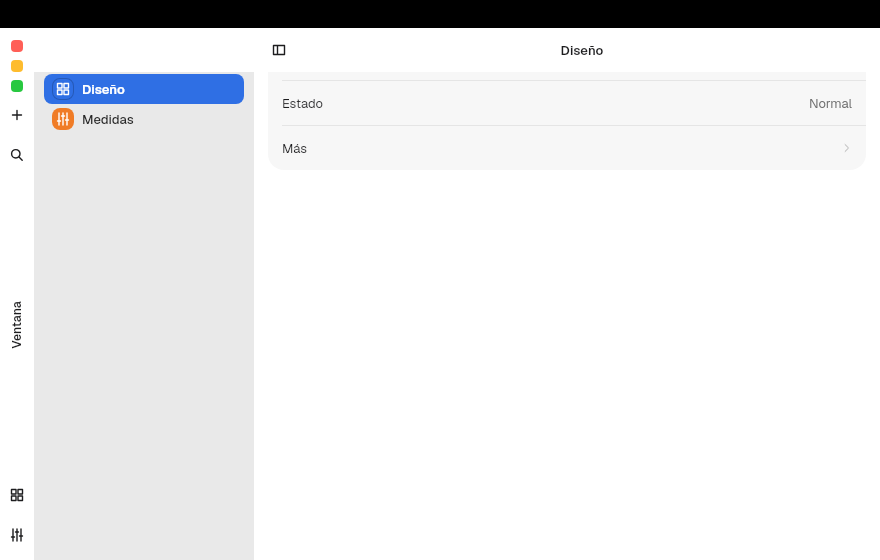
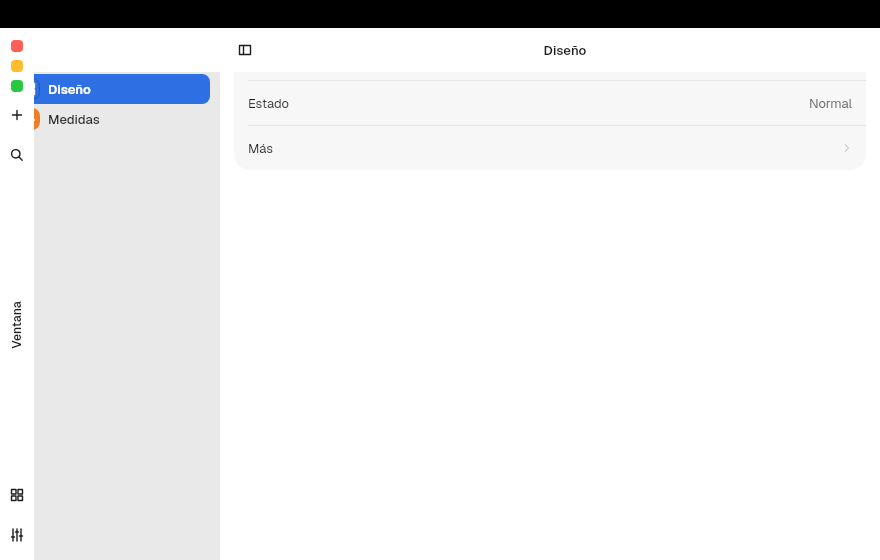
feat(kit): el Rail usa la barra de pantalla completa en vertical
En pantalla completa con la barra del compositor bajada, el Rail entra
desde su lado con la FullscreenBar de la ventana: Solid (franja opaca),
Glass (franja difuminada con línea interior), ProgressiveGlass
(difuminado desde el borde) o Push (vuelve al diseño y empuja el
contenido). Con la barra arriba no se ve. El cristal recupera los bordes
laterales. Capítulo 7 con las capturas de cada barra en el rail.

Claude-Session: https://claude.ai/code/session_01F89v1w3NBR5b9eab8vdVJm

diff --git a/crates/barrier-kit/src/glass.rs b/crates/barrier-kit/src/glass.rs
@@ -21,8 +21,16 @@ use crate::platform::FullscreenBar;
 
 use crate::theme::{SurfaceKind, surface_background};
 
+#[derive(Clone, Copy, Debug, PartialEq)]
+pub(crate) enum GlassEdge {
+    Top,
+    Left,
+    Right,
+}
+
 #[derive(PartialEq)]
 struct Glass {
+    edge: GlassEdge,
     metrics: FullscreenGlassMetrics,
     tint: Rgba,
     line: Option<Rgba>,
@@ -37,16 +45,32 @@ pub(crate) fn glass_tint() -> Rgba {
     }
 }
 
-fn glass(metrics: FullscreenGlassMetrics, depth: f32, line: Option<Rgba>) -> Element {
+fn along(edge: GlassEdge, depth: f32) -> (Size, Size, Position) {
+    let depth = Size::px(depth);
+    match edge {
+        GlassEdge::Top => (Size::fill(), depth, Position::new_absolute()),
+        GlassEdge::Left => (depth, Size::fill(), Position::new_absolute().left(0.0)),
+        GlassEdge::Right => (depth, Size::fill(), Position::new_absolute().right(0.0)),
+    }
+}
+
+fn glass(
+    edge: GlassEdge,
+    metrics: FullscreenGlassMetrics,
+    depth: f32,
+    line: Option<Rgba>,
+) -> Element {
+    let (width, height, position) = along(edge, depth);
     let layout = torin::node::Node {
-        width: Size::fill(),
-        height: Size::px(depth),
-        position: Position::new_absolute(),
+        width,
+        height,
+        position,
         ..Default::default()
     };
     Element::Element {
         key: DiffKey::None,
         element: Rc::new(Glass {
+            edge,
             metrics,
             tint: glass_tint(),
             line,
@@ -56,29 +80,39 @@ fn glass(metrics: FullscreenGlassMetrics, depth: f32, line: Option<Rgba>) -> Ele
     }
 }
 
-pub(crate) fn fullscreen_backdrop(bar: FullscreenBar, depth: f32) -> Element {
+pub(crate) fn fullscreen_backdrop(bar: FullscreenBar, edge: GlassEdge, depth: f32) -> Element {
     match bar {
-        FullscreenBar::Solid => rect()
-            .position(Position::new_absolute())
-            .width(Size::fill())
-            .height(Size::px(depth))
-            .background(crate::theme::color(Rgba {
-                a: 1.0,
-                ..glass_tint()
-            }))
-            .into_element(),
+        FullscreenBar::Solid => {
+            let (width, height, position) = along(edge, depth);
+            rect()
+                .position(position)
+                .width(width)
+                .height(height)
+                .background(crate::theme::color(Rgba {
+                    a: 1.0,
+                    ..glass_tint()
+                }))
+                .into_element()
+        }
         FullscreenBar::Glass => glass(
+            edge,
             FULLSCREEN_BAND,
             depth,
             Some(crate::style::Palette::current().separator),
         ),
-        FullscreenBar::ProgressiveGlass => glass(FULLSCREEN_GLASS, FULLSCREEN_GLASS.height, None),
+        FullscreenBar::ProgressiveGlass => {
+            glass(edge, FULLSCREEN_GLASS, FULLSCREEN_GLASS.height, None)
+        }
         FullscreenBar::Push => rect().into_element(),
     }
 }
 
-pub(crate) fn progressive_glass() -> Element {
-    fullscreen_backdrop(FullscreenBar::ProgressiveGlass, FULLSCREEN_GLASS.height)
+pub(crate) fn progressive_glass(edge: GlassEdge) -> Element {
+    fullscreen_backdrop(
+        FullscreenBar::ProgressiveGlass,
+        edge,
+        FULLSCREEN_GLASS.height,
+    )
 }
 
 fn strength_at(stops: &[(f32, f32)], t: f32) -> f32 {
@@ -103,7 +137,7 @@ fn layer_mask(mask: &[(f32, f32)], floor: f32, level: f32) -> Vec<(f32, f32)> {
         .collect()
 }
 
-fn downwards(bounds: SkRect, color: Rgba, stops: &[(f32, f32)]) -> Paint {
+fn inwards(edge: GlassEdge, bounds: SkRect, color: Rgba, stops: &[(f32, f32)]) -> Paint {
     let (colors, offsets): (Vec<Color4f>, Vec<f32>) = stops
         .iter()
         .map(|&(offset, alpha)| {
@@ -119,7 +153,11 @@ fn downwards(bounds: SkRect, color: Rgba, stops: &[(f32, f32)]) -> Paint {
     );
     let mut paint = Paint::default();
     paint.set_dither(true);
-    let line = ((bounds.left, bounds.top), (bounds.left, bounds.bottom));
+    let line = match edge {
+        GlassEdge::Top => ((bounds.left, bounds.top), (bounds.left, bounds.bottom)),
+        GlassEdge::Left => ((bounds.left, bounds.top), (bounds.right, bounds.top)),
+        GlassEdge::Right => ((bounds.right, bounds.top), (bounds.left, bounds.top)),
+    };
     paint.set_shader(shaders::linear_gradient(line, &gradient, None));
     paint
 }
@@ -155,7 +193,8 @@ impl ElementExt for Glass {
             let Some(filter) = blur((sigma, sigma), TileMode::Clamp, None, None) else {
                 continue;
             };
-            let mut mask = downwards(
+            let mut mask = inwards(
+                self.edge,
                 bounds,
                 Rgba::rgb8(255, 255, 255),
                 &layer_mask(self.metrics.mask, level / 2.0, level),
@@ -169,15 +208,29 @@ impl ElementExt for Glass {
             canvas.restore();
             canvas.restore();
         }
-        canvas.draw_rect(bounds, &downwards(bounds, self.tint, self.metrics.tint));
+        canvas.draw_rect(
+            bounds,
+            &inwards(self.edge, bounds, self.tint, self.metrics.tint),
+        );
         if let Some(line) = self.line {
             let width = FULLSCREEN_BAR.band_line * context.scale_factor as f32;
-            let edge_line = SkRect::new(
-                bounds.left,
-                bounds.bottom - width,
-                bounds.right,
-                bounds.bottom,
-            );
+            let edge_line = match self.edge {
+                GlassEdge::Top => SkRect::new(
+                    bounds.left,
+                    bounds.bottom - width,
+                    bounds.right,
+                    bounds.bottom,
+                ),
+                GlassEdge::Left => SkRect::new(
+                    bounds.right - width,
+                    bounds.top,
+                    bounds.right,
+                    bounds.bottom,
+                ),
+                GlassEdge::Right => {
+                    SkRect::new(bounds.left, bounds.top, bounds.left + width, bounds.bottom)
+                }
+            };
             let mut paint = Paint::default();
             paint.set_color4f(rgba4f(line), None);
             canvas.draw_rect(edge_line, &paint);

diff --git a/crates/barrier-kit/src/chrome.rs b/crates/barrier-kit/src/chrome.rs
@@ -11,6 +11,7 @@ use vow_design::{
     TITLEBAR_RAIL,
 };
 
+use crate::glass::{GlassEdge, fullscreen_backdrop};
 use crate::platform::FullscreenBar;
 use crate::platform::WindowControls;
 use crate::style::Palette;
@@ -386,13 +387,26 @@ impl Component for WindowChrome {
 
         let items = &self.rail_items;
         let vertical_rail = layout == TitlebarLayout::Rail && !style.unified(sidebar_shown);
+        let bar = fullscreen_bar();
+        let focus_progress = try_consume_root_context::<WindowControls>()
+            .map_or(0.0, |controls| *controls.focus_bar_progress.read());
+        let rail_over = overlaid && vertical_rail && bar != FullscreenBar::Push;
+        let rail_pushed = overlaid && vertical_rail && bar == FullscreenBar::Push;
         let lights_opacity = if reveal == Reveal::Corner {
             progress
         } else {
             1.0
         };
-        let edge = match (vertical_rail, reveal) {
+        let edge = match (vertical_rail && !rail_over, reveal) {
             (false, _) => None,
+            (true, _) if rail_pushed => Some(
+                rect()
+                    .width(Size::px(style.rail_width * focus_progress))
+                    .height(Size::fill())
+                    .overflow(Overflow::Clip)
+                    .child(rail(style, items, 1.0))
+                    .into_element(),
+            ),
             (true, Reveal::Always | Reveal::Corner) => {
                 Some(rail(style, items, lights_opacity).into_element())
             }
@@ -466,6 +480,29 @@ impl Component for WindowChrome {
                     )))),
             );
         }
+        if rail_over && focus_progress > 0.0 {
+            let extent = style.rail_width;
+            let position = Position::new_absolute().top(0.0);
+            let (position, glass_edge) = match style.side {
+                Side::Left => (
+                    position.left(-extent * (1.0 - focus_progress)),
+                    GlassEdge::Left,
+                ),
+                Side::Right => (
+                    position.right(-extent * (1.0 - focus_progress)),
+                    GlassEdge::Right,
+                ),
+            };
+            root = root.child(
+                rect()
+                    .position(position)
+                    .width(Size::px(extent))
+                    .height(Size::percent(100.0))
+                    .layer(Layer::Overlay)
+                    .child(fullscreen_backdrop(bar, glass_edge, extent))
+                    .child(rail(style, items, 1.0)),
+            );
+        }
         if reveal == Reveal::Popup && progress > 0.0 && !overlaid {
             root = root.child(pill(
                 if layout == TitlebarLayout::Top {
@@ -517,7 +554,8 @@ fn rail(style: ChromeStyle, items: &RailItems, lights_opacity: f32) -> Rect {
         .map_or(0.0, |controls| {
             *controls.focus_bar_height.read() * *controls.focus_bar_progress.read()
         });
-    let background = if island {
+    let floating = overlaid && fullscreen_bar() != FullscreenBar::Push;
+    let background = if island || floating {
         Rgba::TRANSPARENT
     } else if activated {
         surface_background(&resolved, SurfaceKind::Toplevel)
@@ -529,7 +567,7 @@ fn rail(style: ChromeStyle, items: &RailItems, lights_opacity: f32) -> Rect {
     } else {
         palette(resolved.scheme).title.unfocused
     };
-    let line = (!island).then(|| {
+    let line = (!island && !floating).then(|| {
         at_side(
             match style.side {
                 Side::Left => Side::Right,

diff --git a/crates/barrier-kit/src/titlebar.rs b/crates/barrier-kit/src/titlebar.rs
@@ -204,7 +204,11 @@ impl Component for Titlebar {
                             .width(Size::window_percent(100.0))
                             .layer(TITLEBAR_OVERLAY_LAYER)
                             .opacity(overlay_opacity)
-                            .child(crate::glass::fullscreen_backdrop(fullscreen_bar, height)),
+                            .child(crate::glass::fullscreen_backdrop(
+                                fullscreen_bar,
+                                crate::glass::GlassEdge::Top,
+                                height,
+                            )),
                     )
                     .child(
                         rect()

diff --git a/crates/barrier-kit/src/media.rs b/crates/barrier-kit/src/media.rs
@@ -45,7 +45,7 @@ pub fn material(corner_radius: f32) -> Element {
 }
 
 pub fn top_glass() -> Element {
-    crate::glass::progressive_glass()
+    crate::glass::progressive_glass(crate::glass::GlassEdge::Top)
 }
 
 #[derive(PartialEq)]

diff --git a/docs/barrierkit/07-titlebars.md b/docs/barrierkit/07-titlebars.md
@@ -198,6 +198,22 @@ Con `Push` y la barra arriba, el contenido llega al borde superior:
 
 Solo `Glass` y `ProgressiveGlass` difuminan.
 
+#### Con el `Rail`
+
+El rail usa la misma barra, en vertical. Con la barra del compositor arriba no
+se ve; al bajar, entra desde su lado:
+
+| `FullscreenBar` | El rail | Cómo se ve |
+|---|---|---|
+| `Solid` («A · Lisa», **por defecto**) | Franja opaca del ancho del rail, encima del contenido | ![Rail con A · Lisa](assets/estados/rail-barra-lisa.png) |
+| `Glass` («B1 · Vidrio en banda») | Franja del ancho del rail que difumina lo de debajo, con una línea en el borde interior | ![Rail con B1 · Vidrio en banda](assets/estados/rail-barra-vidrio-banda.png) |
+| `ProgressiveGlass` («B2 · Vidrio progresivo») | Difuminado máximo en el borde de la ventana que se desvanece hacia dentro en 96 px | ![Rail con B2 · Vidrio progresivo](assets/estados/rail-barra-vidrio-progresivo.png) |
+| `Push` («E · Empuja») | El rail vuelve al diseño y empuja el contenido de lado lo que mide | ![Rail con E · Empuja, barra bajada](assets/estados/rail-barra-empuja.png) |
+
+Con `Push` y la barra arriba, el contenido llega al borde:
+
+![Rail con E · Empuja, barra arriba](assets/estados/rail-barra-empuja-arriba.png)
+
 ### Modo foco con la barra bajada, por diseño
 
 **Con la barra lateral en isla y la ventana maximizada o en pantalla
@@ -216,8 +232,8 @@ compositor, añadida a la imagen: la app no la dibuja.
 |---|---|---|
 | `Top` (por defecto) | La `Titlebar` sobre el contenido; los semáforos de la barra lateral bajan lo mismo | ![Top con la barra bajada](assets/estados/foco-top.png) |
 | `Rail` unificado | La columna de la barra lateral; los semáforos aparecen con la barra, debajo de ella | ![Rail unificado con la barra bajada](assets/estados/foco-unified.png) |
-| `Rail` | Nada: el rail sigue en su sitio, sin tapar la barra lateral. Sus semáforos aparecen con la barra, debajo de ella | ![Rail con la barra bajada](assets/estados/foco-rail.png) |
-| `Rail` con elementos | Igual; los elementos siguen en su sitio | ![Rail con elementos y la barra bajada](assets/estados/foco-rail-elementos.png) |
+| `Rail` | El rail entra desde su lado con la barra elegida (arriba, «Con el `Rail`»); sus semáforos quedan bajo la barra del compositor | ![Rail con la barra bajada](assets/estados/rail-barra-lisa.png) |
+| `Rail` con elementos | Igual, con sus elementos | ![Rail con elementos y la barra bajada](assets/estados/foco-rail-elementos.png) |
 
 ### Qué hace la app
 

diff --git a/docs/barrierkit/07-titlebars.en.md b/docs/barrierkit/07-titlebars.en.md
@@ -196,6 +196,22 @@ With `Push` and the bar up, the content reaches the top edge:
 
 Only `Glass` and `ProgressiveGlass` blur.
 
+#### With the `Rail`
+
+The rail uses the same bar, vertically. With the compositor bar up it is
+hidden; when the bar comes down, it slides in from its side:
+
+| `FullscreenBar` | The rail | How it looks |
+|---|---|---|
+| `Solid` ("A · Lisa", **default**) | An opaque strip as wide as the rail, over the content | ![Rail with A · Lisa](assets/estados/rail-barra-lisa.png) |
+| `Glass` ("B1 · Vidrio en banda") | A strip as wide as the rail that blurs what is below, with a line on the inner edge | ![Rail with B1 · Glass band](assets/estados/rail-barra-vidrio-banda.png) |
+| `ProgressiveGlass` ("B2 · Vidrio progresivo") | Maximum blur at the window edge that fades inward over 96 px | ![Rail with B2 · Progressive glass](assets/estados/rail-barra-vidrio-progresivo.png) |
+| `Push` ("E · Empuja") | The rail returns to the layout and pushes the content sideways by its width | ![Rail with E · Push, bar down](assets/estados/rail-barra-empuja.png) |
+
+With `Push` and the bar up, the content reaches the edge:
+
+![Rail with E · Push, bar up](assets/estados/rail-barra-empuja-arriba.png)
+
 ### Focus mode with the bar down, by layout
 
 **With an island sidebar and the window maximized or in full screen, the
@@ -214,8 +230,8 @@ app does not draw it.
 |---|---|---|
 | `Top` (default) | The `Titlebar` over the content; the sidebar traffic lights move down by the same amount | ![Top with the bar down](assets/estados/foco-top.png) |
 | Unified `Rail` | The sidebar column; the traffic lights appear with the bar, below it | ![Unified rail with the bar down](assets/estados/foco-unified.png) |
-| `Rail` | Nothing: the rail stays in place, without covering the sidebar. Its traffic lights appear with the bar, below it | ![Rail with the bar down](assets/estados/foco-rail.png) |
-| `Rail` with items | The same; the items stay in place | ![Rail with items and the bar down](assets/estados/foco-rail-elementos.png) |
+| `Rail` | The rail slides in from its side with the chosen bar (above, "With the `Rail`"); its traffic lights sit below the compositor bar | ![Rail with the bar down](assets/estados/rail-barra-lisa.png) |
+| `Rail` with items | The same, with its items | ![Rail with items and the bar down](assets/estados/foco-rail-elementos.png) |
 
 ### What the app does
 
